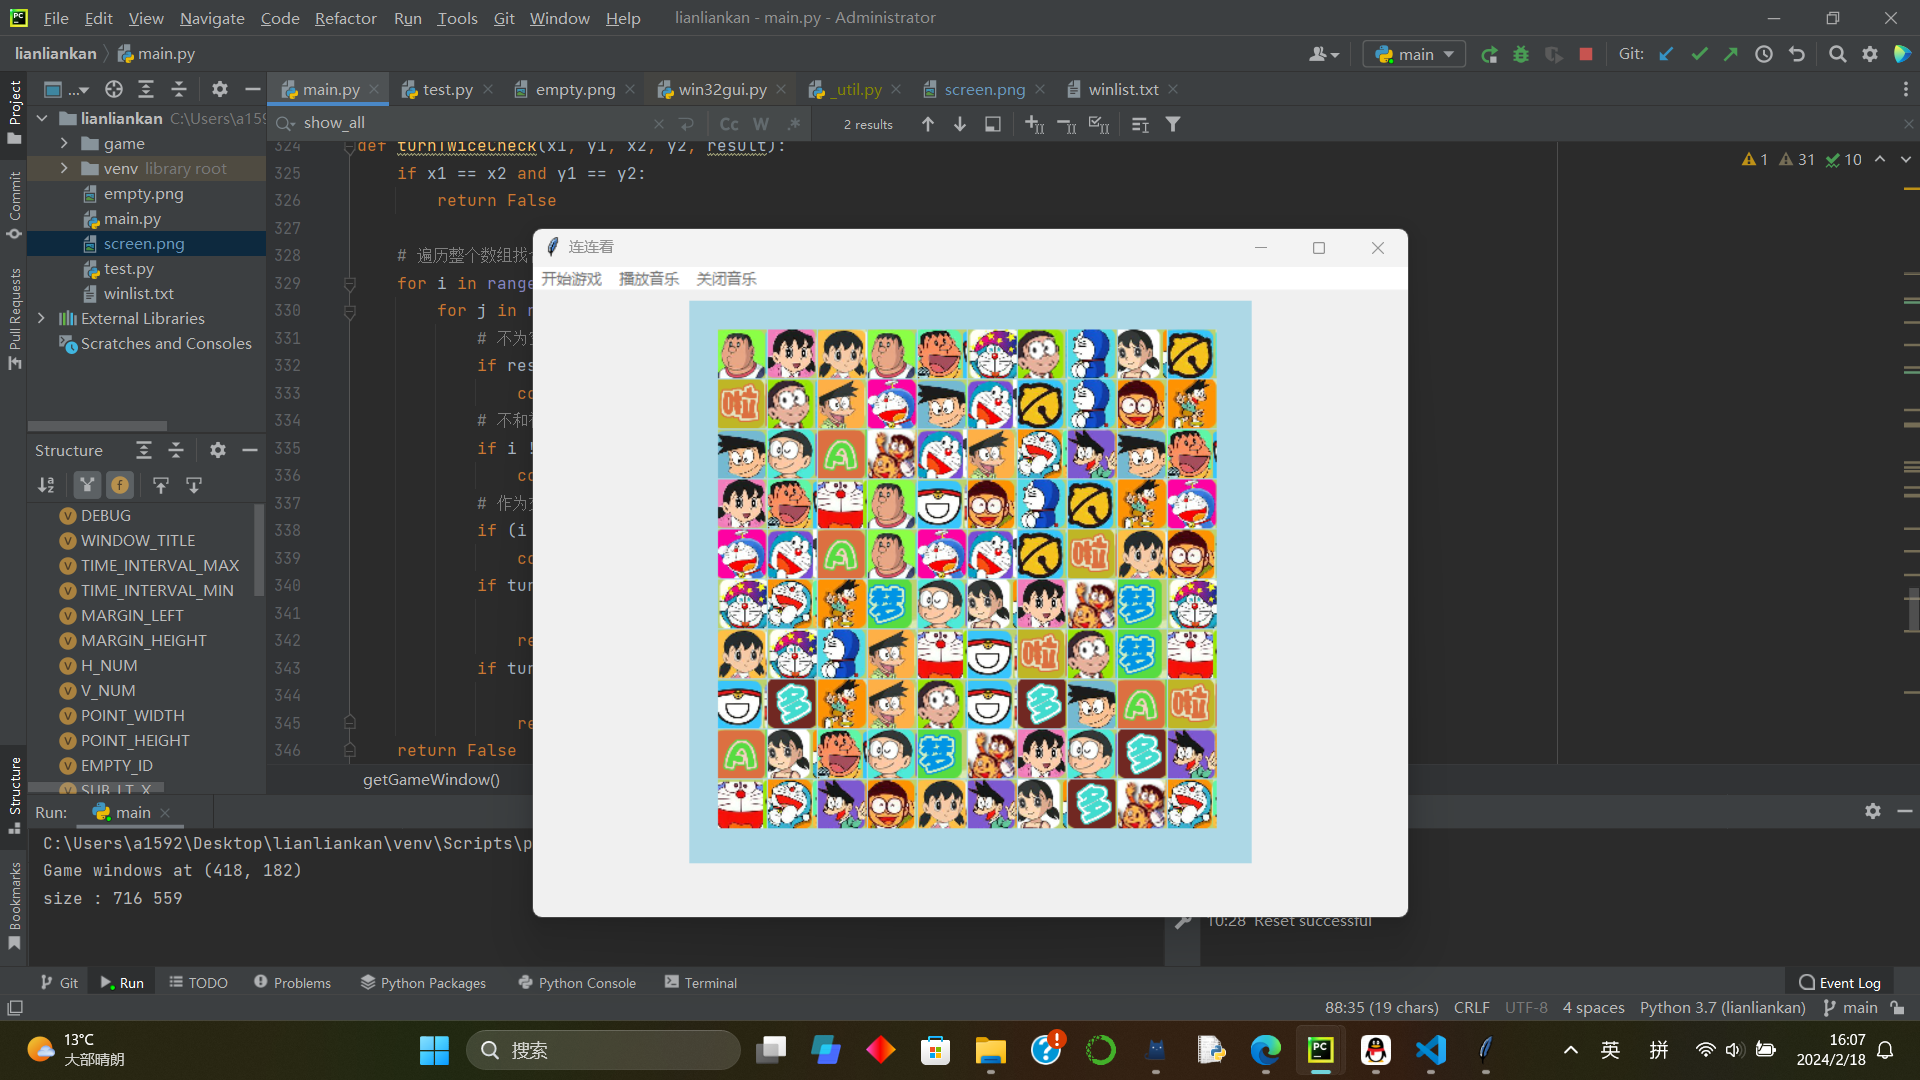
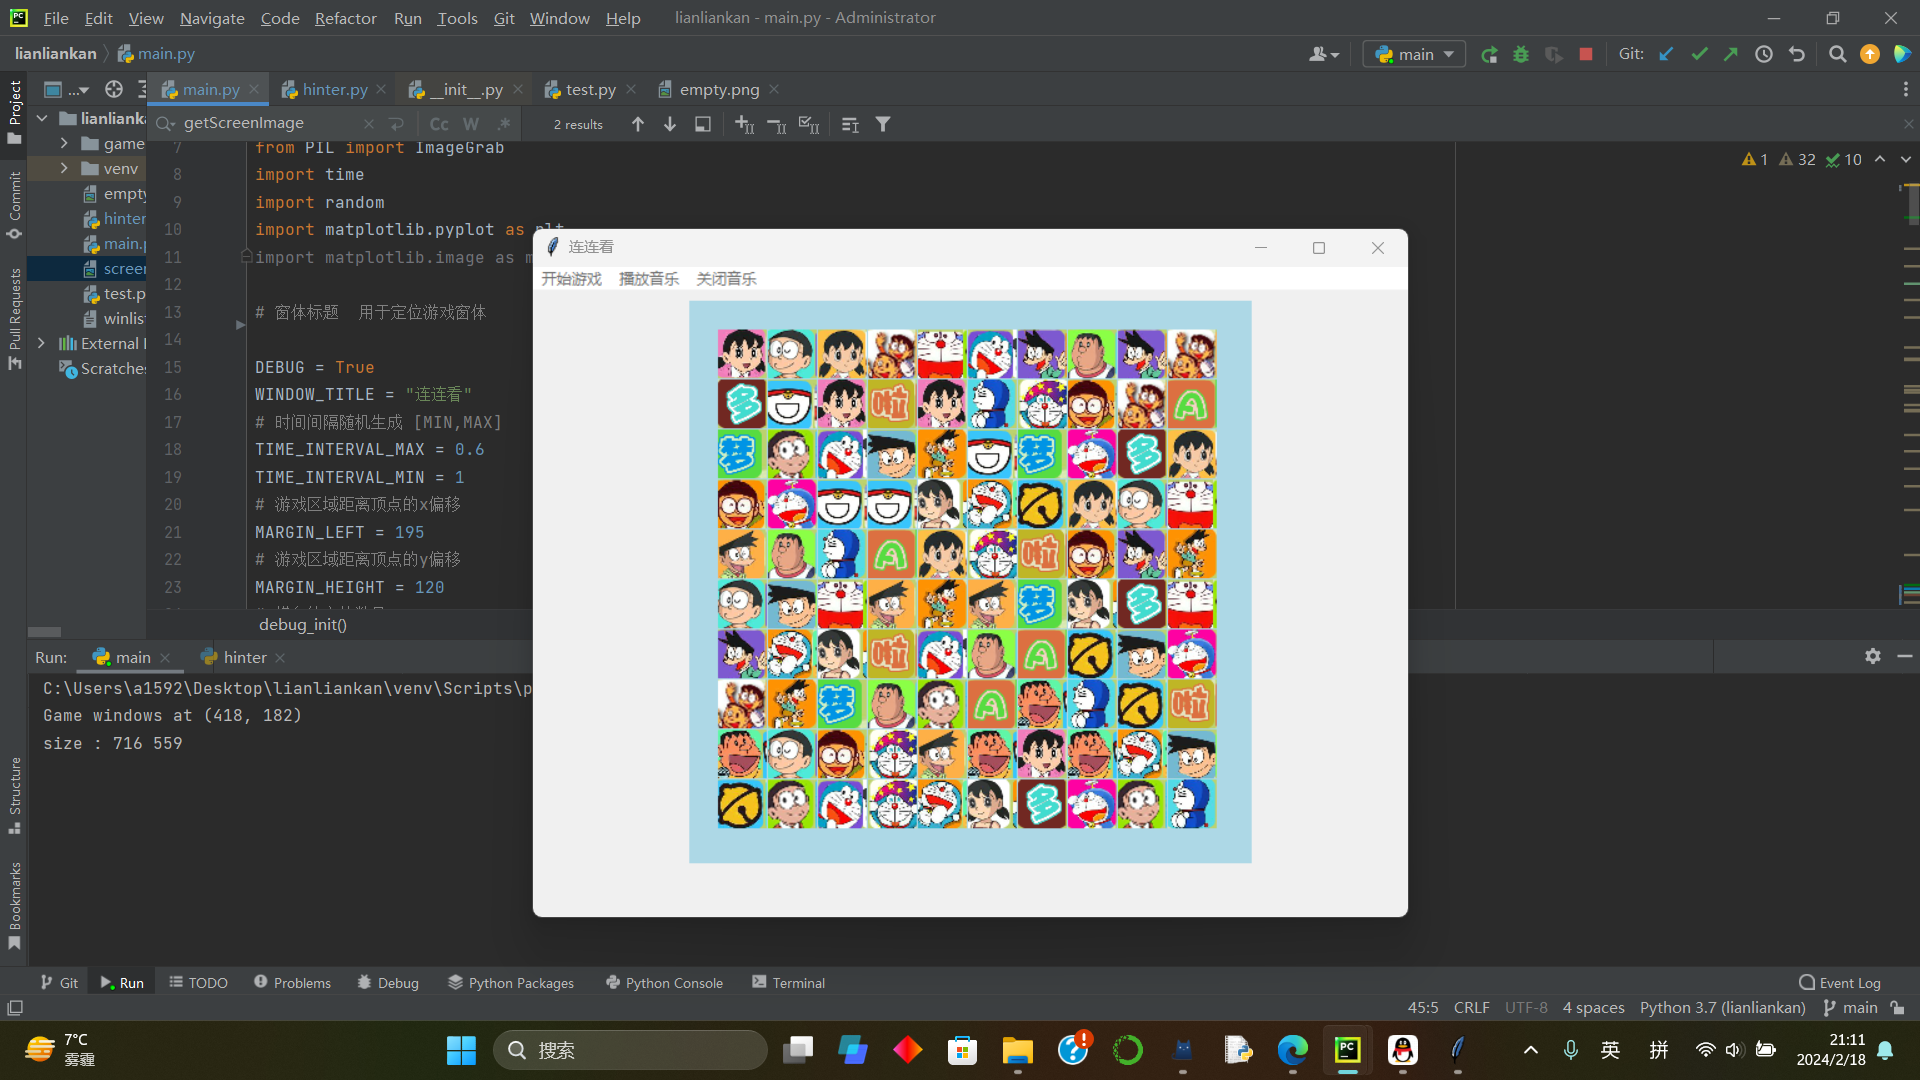
hinter ok in model game

diff --git a/hinter.py b/hinter.py
@@ -1,10 +1,81 @@
 import tkinter as tk
-
 from PIL import ImageTk, Image
+import cv2
 import numpy as np
+import win32api
+import win32gui
+import win32con
+from PIL import ImageGrab
+import time
+import random
 import matplotlib.pyplot as plt
+import matplotlib.image as mpimg
 
-root = tk.Tk()
+# 窗体标题  用于定位游戏窗体
+import main
+from main import getAllSquare, getAllSquareTypes, getAllSquareRecord, canConnect
+
+DEBUG = True
+WINDOW_TITLE = "连连看"
+# 时间间隔随机生成 [MIN,MAX]
+TIME_INTERVAL_MAX = 0.6
+TIME_INTERVAL_MIN = 1
+# 游戏区域距离顶点的x偏移
+MARGIN_LEFT = 195
+# 游戏区域距离顶点的y偏移
+MARGIN_HEIGHT = 120
+# 横向的方块数量
+H_NUM = 10
+# 纵向的方块数量
+V_NUM = 10
+# 方块宽度
+POINT_WIDTH = 40
+# 方块高度
+POINT_HEIGHT = 40
+# 空图像编号
+EMPTY_ID = 0
+# 切片处理时候的左上、右下坐标：
+SUB_LT_X = 8
+SUB_LT_Y = 8
+SUB_RB_X = 32
+SUB_RB_Y = 32
+# 游戏的最多消除次数
+MAX_ROUND = 10000
+WINDOW_X = 418
+WINDOW_Y = 182
+
+
+def debug_init():
+    global WINDOW_TITLE, TIME_INTERVAL_MAX, TIME_INTERVAL_MIN, MARGIN_LEFT, MARGIN_HEIGHT, H_NUM, V_NUM, \
+        POINT_HEIGHT, POINT_WIDTH, EMPTY_ID, SUB_LT_Y, SUB_RB_Y, SUB_LT_X, SUB_RB_X, MAX_ROUND, WINDOW_X, WINDOW_Y
+    WINDOW_TITLE = "连连看"
+    # 时间间隔随机生成 [MIN,MAX]
+    TIME_INTERVAL_MAX = 0.06
+    TIME_INTERVAL_MIN = 0.1
+    # 游戏区域距离顶点的x偏移
+    MARGIN_LEFT = 297
+    # 游戏区域距离顶点的y偏移
+    MARGIN_HEIGHT = 145
+    # 横向的方块数量
+    H_NUM = 10
+    # 纵向的方块数量
+    V_NUM = 10
+    # 方块宽度
+    POINT_WIDTH = 50
+    # 方块高度
+    POINT_HEIGHT = 50
+    # 空图像编号
+    EMPTY_ID = 0
+    # 切片处理时候的左上、右下坐标：
+    SUB_LT_X = 8
+    SUB_LT_Y = 8
+    SUB_RB_X = 42
+    SUB_RB_Y = 42
+    # 游戏的最多消除次数
+    MAX_ROUND = 200
+    WINDOW_X = 418
+    WINDOW_Y = 182
+    main.debug_init()
 
 
 class MainWindow:
@@ -16,8 +87,7 @@ class MainWindow:
     X_OFFSET = 40
     Y_OFFSET = 80
     PADDING = 3
-
-
+    colors = ['red', 'yellow', 'green']
 
     def __init__(self):
         self.photos = None
@@ -34,11 +104,16 @@ class MainWindow:
 
     def __addComponets(self):
         # 地图尺寸、颜色
-        self.canvas = tk.Canvas(root, bg='lightblue', width=450, height=700)
+        self.canvas = tk.Canvas(root, bg='white', width=450, height=700)
         # 插入文字
         # self.text = self.canvas.create_text(100, 320, anchor='nw', text='哆啦A梦连连看', fill="white", fon=('华文彩云', 30))
         self.canvas.pack(side=tk.TOP, pady=5)
         self.canvas.bind('<Button-1>')  # , self.clickCanvas)
+
+    def pos(self, i, j):
+        x = self.X_OFFSET + j * self.POINT_WIDTH + self.PADDING
+        y = self.Y_OFFSET + i * self.POINT_HEIGHT + self.PADDING
+        return x, y
 
     def draw_square(self, square_list, rows, cols):
         LEFT = self.X_OFFSET
@@ -56,15 +131,103 @@ class MainWindow:
         self.photos = [[None for _ in range(cols)] for _ in range(rows)]
         for i in range(rows):
             for j in range(cols):
-                x = LEFT + j * self.POINT_WIDTH + self.PADDING
-                y = TOP + i * self.POINT_HEIGHT + self.PADDING
                 idx = j * 10 + i
                 image = Image.fromarray(np.array(square_list[idx]))
-                # plt.imshow(image)
-                # plt.show()
                 self.photos[i][j] = ImageTk.PhotoImage(image)
 
-                self.canvas.create_image((x, y), image=self.photos[i][j], anchor='nw', tags='im%d%d' % (i, j))
+                self.canvas.create_image(self.pos(i, j), image=self.photos[i][j], anchor='nw', tags='im%d%d' % (i, j))
+
+    def hint(self, i, j, m, n, prior):
+        p1 = self.pos(i, j) + (15, 15)
+        p2 = self.pos(m, n) + (15, 15)
+        self.canvas.create_oval(p1[0], p1[1], p1[0] + 25, p1[1] + 25, fill=self.colors[prior])
+        self.canvas.create_oval(p2[0], p2[1], p2[0] + 25, p2[1] + 25, fill=self.colors[prior])
 
 
+def hint_one(result, prior):
+    # 遍历地图
+    # time.sleep(3)
+    for i in range(0, len(result)):
+        for j in range(0, len(result[0])):
+            # 当前位置非空
+            if result[i][j] != EMPTY_ID:
+                # 再次遍历地图 寻找另一个满足条件的图片
+                for m in range(0, len(result)):
+                    for n in range(0, len(result[0])):
+                        if result[m][n] != EMPTY_ID:
+                            # 若可以执行消除
+                            if canConnect(i, j, m, n, result):
+                                # 消除的两个位置设置为空
+                                result[i][j] = EMPTY_ID
+                                result[m][n] = EMPTY_ID
+                                print('We can remove ：' + str(i) + ',' + str(j) + ' and ' + str(m) + ',' + str(
+                                    n) + ", prior =", prior)
+                                hinter.hint(i - 1, j - 1, m - 1, n - 1, prior)
+                                # # 计算当前两个位置的图片在游戏中应该存在的位置
+                                # x1 = game_x + (j - 1) * POINT_WIDTH
+                                # y1 = game_y + (i - 1) * POINT_HEIGHT
+                                # x2 = game_x + (n - 1) * POINT_WIDTH
+                                # y2 = game_y + (m - 1) * POINT_HEIGHT
+                                # print("pos: " + str((x1, y1)) + " " + str((x2, y2)))
+                                # # 模拟鼠标点击第一个图片所在的位置
+                                # win32api.SetCursorPos((x1 + POINT_WIDTH // 2, y1 + POINT_HEIGHT // 2))
+                                # win32api.mouse_event(win32con.MOUSEEVENTF_LEFTDOWN, x1 + POINT_WIDTH // 2,
+                                #                      y1 + POINT_HEIGHT // 2, 0, 0)
+                                # win32api.mouse_event(win32con.MOUSEEVENTF_LEFTUP, x1 + POINT_WIDTH // 2,
+                                #                      y1 + POINT_HEIGHT // 2, 0, 0)
+                                #
+                                # # 等待随机时间 ，防止检测
+                                # time.sleep(random.uniform(TIME_INTERVAL_MIN, TIME_INTERVAL_MAX))
+                                #
+                                # # 模拟鼠标点击第二个图片所在的位置
+                                # win32api.SetCursorPos((x2 + POINT_WIDTH // 2, y2 + POINT_HEIGHT // 2))
+                                # win32api.mouse_event(win32con.MOUSEEVENTF_LEFTDOWN, x2 + POINT_WIDTH // 2,
+                                #                      y2 + POINT_HEIGHT // 2, 0, 0)
+                                # win32api.mouse_event(win32con.MOUSEEVENTF_LEFTUP, x2 + POINT_WIDTH // 2,
+                                #                      y2 + POINT_HEIGHT // 2, 0, 0)
+                                # time.sleep(random.uniform(TIME_INTERVAL_MIN, TIME_INTERVAL_MAX))
+                                # 执行消除后返回True
+                                return True
+    return False
 
+
+def autoHint(squares):
+    cnt = 0
+    # 重复一次消除直到到达最多消除次数
+    while cnt < 3:
+        print('haha')
+        if not hint_one(squares, cnt):
+            # 当不再有可消除的方块时结束 ， 返回消除数量
+            return cnt
+        # time.sleep(1.0)
+        cnt += 1
+
+
+if __name__ == '__main__':
+    root = tk.Tk()
+    if DEBUG:
+        debug_init()
+    random.seed()
+    hinter = MainWindow()
+
+    # i. 定位游戏窗体
+    # game_pos = getGameWindow()
+    game_pos = (WINDOW_X, WINDOW_Y)  # TODO
+    time.sleep(1)
+    # ii. 获取屏幕截图
+    # screen_image = getScreenImage()
+    screen_image = cv2.imread("screen.png")  # TODO
+    # iii. 对截图切片，形成一张二维地图
+    all_square_list = getAllSquare(screen_image, game_pos)
+    # iii-2 创建窗体并绘制图像
+    hinter.draw_square(all_square_list, H_NUM, V_NUM)
+    print(POINT_WIDTH)
+    # iv. 获取所有类型的图形，并编号
+    types = getAllSquareTypes(all_square_list)
+    # print(type(types))
+    # v. 讲获取的图片地图转换成数字矩阵
+    result = np.transpose(getAllSquareRecord(all_square_list, types))
+    # vi. 执行消除 , 并输出消除数量
+    # print('The total elimination amount is ' + str(autoRemove(result, game_pos)))
+    autoHint(result)
+    root.mainloop()

diff --git a/main.py b/main.py
@@ -11,7 +11,6 @@ import matplotlib.pyplot as plt
 import matplotlib.image as mpimg
 
 # 窗体标题  用于定位游戏窗体
-from hinter import MainWindow, root
 
 DEBUG = True
 WINDOW_TITLE = "连连看"
@@ -429,25 +428,20 @@ if __name__ == '__main__':
     if DEBUG:
         debug_init()
     random.seed()
-    m = MainWindow()
-
     # i. 定位游戏窗体
-    # game_pos = getGameWindow()
-    game_pos = (WINDOW_X,WINDOW_Y) # TODO
+    game_pos = getGameWindow()
+    # game_pos = (WINDOW_X,WINDOW_Y) # TODO
     time.sleep(1)
     # ii. 获取屏幕截图
-    # screen_image = getScreenImage()
-    screen_image = cv2.imread("screen.png") # TODO
+    screen_image = getScreenImage()
+    # screen_image = cv2.imread("screen.png") # TODO
     # iii. 对截图切片，形成一张二维地图
     all_square_list = getAllSquare(screen_image, game_pos)
-    # iii-2 创建窗体并绘制图像
-    m.draw_square(all_square_list, H_NUM,  V_NUM)
-
     # iv. 获取所有类型的图形，并编号
     types = getAllSquareTypes(all_square_list)
     # print(type(types))
     # v. 讲获取的图片地图转换成数字矩阵
     result = np.transpose(getAllSquareRecord(all_square_list, types))
     # vi. 执行消除 , 并输出消除数量
-    # print('The total elimination amount is ' + str(autoRemove(result, game_pos)))
-    root.mainloop()
+    print('The total elimination amount is ' + str(autoRemove(result, game_pos)))
+
